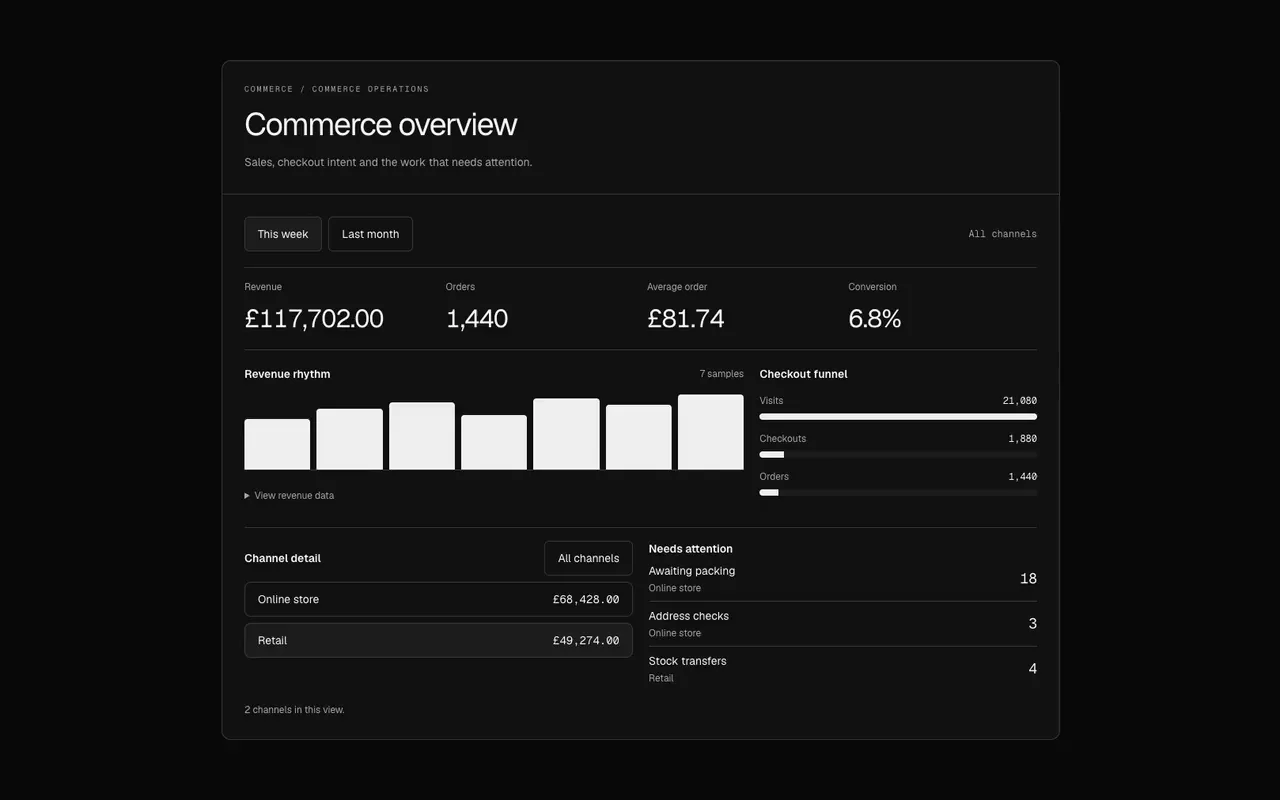
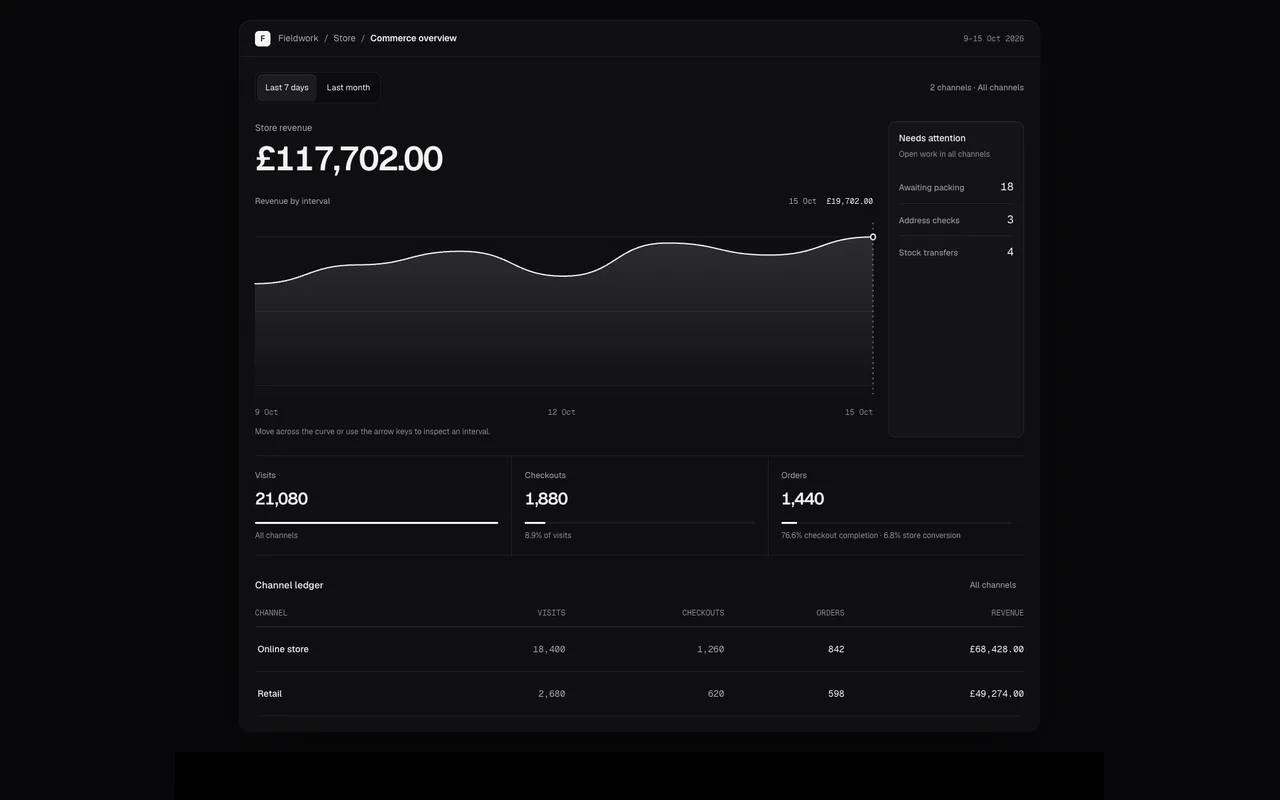
test(commerce-operations-dashboard): verify exact totals and full preview framing

diff --git a/docs/review/HANDOFF_TASKS.md b/docs/review/HANDOFF_TASKS.md
@@ -211,6 +211,8 @@ and how to know it's done. Pick any of them up independently. Background, briefs
 
 - Task 1: Fulfilment Desk now has a reviewed 5.7s film showing the label-recovery choice, typed internal note, review and settled recorded-request receipt. The full workflow fits one measured viewport with a matching paired poster. Maximum source gap is 11ms, changed-source delivery 17.7ms and moving-frame p95 19.0ms, with no stalls and every existing guard intact. 120 listed films remain.
 
+- Task 7: Operations Dashboard is rebuilt around a scrubbable revenue curve, checkout flow and channel ledger. Its 24-mount source review and rewritten Next regression cover exact aggregate totals, pointer/keyboard intervals, channel/period changes, invalid data, zero denominators and incomplete history. The full September replay, both-theme accessibility, six widths, entrance/state captures, two controls and official audit pass, with strict registry, TypeScript and all 1,063 unit tests. The recorded 1,166px card clipped its old 1,100px viewport; the new 1,240px preview, complete replay and refreshed poster fit. Its new film joins task 1; 36 components and 12 blocks remain in task 7.
+
 ## Ground rules (read first)
 
 - Two repos. Public: `richawo/Design-components-for-AI-agents` (this one). Pro: `richawo/Design-for-AI`, private, cloned
@@ -228,7 +230,7 @@ and how to know it's done. Pick any of them up independently. Background, briefs
 - Browser checks: `node scripts/check-component.mjs <slug> --base=http://localhost:3100 --no-video --keep-going`
   (screenshots at 1440/768/390 and every control flip; read the screenshots it writes to `test-results/check/<slug>/`).
 
-## 1. Re-record demo videos (120 components)
+## 1. Re-record demo videos (121 components)
 
 Every rebuilt component's poster is current but its catalogue film (`public/previews/<slug>.mp4`) still shows the old
 version. Record them one at a time on an otherwise idle machine; the recorder rejects frame stalls under load.
@@ -247,6 +249,7 @@ slug or per small group). Notes:
 
 Slugs:
 
+`commerce-operations-dashboard`
 `editor-font-pairing`, `editor-keyframe-track`
 `editor-layer-stack`, `editor-spacing-inspector`, `editor-storyboard-strip`, `editor-version-restore`
 `three-exploded-assembly`, `three-material-inspector`, `agents-budget-guard`, `agents-dependency-board`
@@ -376,15 +379,15 @@ All nine parked rebuilds are shipped in both repos. Their original `_wip/<slug>`
 | finance-budget-variance | Completed 17 October: Next probe, dark/light accessibility, responsive and entrance/state captures, live demo and refreshed poster pass. |
 | finance-cashflow-dashboard | Completed 17 October: weekly balance and in/out bars, movable payments, independent pending saves, invalid-data guards, selected-week list geometry, Next probe/demo, both-theme accessibility, responsive/state/entrance captures and refreshed poster pass. |
 
-## 7. Continue the review (37 components, then 12 blocks)
+## 7. Continue the review (36 components, then 12 blocks)
 
-Same process as the 161 already done: hold each to the first ~100 components' standard. Briefs:
+Same process as the 162 already done: hold each to the first ~100 components' standard. Briefs:
 `docs/review/REVIEW_BRIEF.md`, `docs/review/SUITE_BRIEF.md` for industry components, suite languages in
 `docs/review/suites/`. Work newest first, about four components per batch, and verify each (build, tsc, tests,
 check-component, your own captures of states and mid-entrance frames, a refreshed poster, a rewritten pro-50 probe for
 industry components).
 
-- **Commerce** (copy `suites/commerce.md`): commerce-operations-dashboard, commerce-return-desk, commerce-variant-stock,
+- **Commerce** (copy `suites/commerce.md`): commerce-return-desk, commerce-variant-stock,
   commerce-catalog-import. `block-commerce-workspace` imports commerce-return-desk: keep its call site working.
 - **Others**: app-permission-matrix, legal-version-history (`suites/legal.md`), hr-capacity-planner (`suites/hr.md`),
   data-query-builder.

diff --git a/docs/review/STATUS.md b/docs/review/STATUS.md
@@ -1,6 +1,6 @@
 # Review status
 
-161 components are rebuilt (or, for a few, polished), verified and committed. For each: whether its demo video
+162 components are rebuilt (or, for a few, polished), verified and committed. For each: whether its demo video
 needs re-recording, whether its poster is current, and the state of its browser regression probe.
 
 - **Video**: `new` means `public/previews/<slug>.mp4` still shows the old version. Re-record serially on a quiet machine:
@@ -174,10 +174,11 @@ remain in place. Measurements, checkout revisions and the investigated package d
 | `fashion-size-guide` | new | current | source-fixture regression/demo, native palettes, both-theme accessibility and responsive/state/entrance captures pass |
 | `fashion-wholesale-order` | new | current | rewritten, passes |
 
-## Commerce suite (7)
+## Commerce suite (8)
 
 | Slug | Video | Poster | Probe |
 | --- | --- | --- | --- |
+| `commerce-operations-dashboard` | new | current | Rebuilt revenue/flow/channel dashboard; 24-mount source review, Next exact-total/inspection/history/empty regression, full-month replay, both-theme accessibility, six widths, entrance/state captures, two controls and official audit pass. Measured 1,240px preview and refreshed poster retain the whole ledger. |
 | `commerce-fulfilment-desk` | current | current | Rebuilt parcel/route/recovery workflow; 23-mount source review, Next retained-note/retry/pending/revision/empty regression, recorded-request replay, both-theme accessibility, six widths, entrance/state captures, two controls, official audit and measured full-frame poster pass; reviewed 5.7s recovery/note/review/record film and paired poster are current. |
 | `commerce-purchase-order` | current | current | Rebuilt PO document; 22-mount source review, Next exact-cost/retry/pending/supplier regression, three-line saved-draft replay, both-theme accessibility, six widths, entrance/state captures, three controls, official audit and refreshed poster pass; reviewed 4.1s add/review/save film and paired poster are current. |
 | `commerce-promotion-builder` | current | current | Rebuilt offer ticket and exact line-level receipt; 22-mount source review, Next workflow, both-theme accessibility, six widths, entrance/state captures, three controls, official audit and refreshed poster pass; reviewed 4.2s audience/savings/save film and paired poster are current. |
